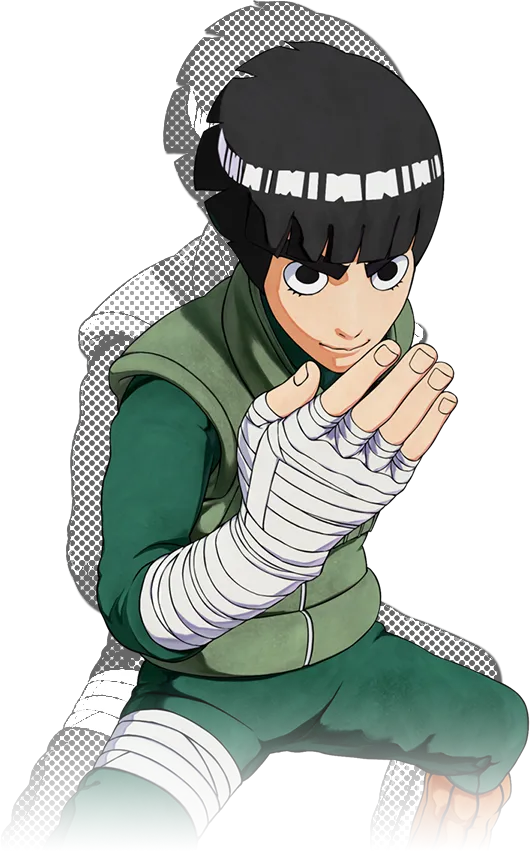
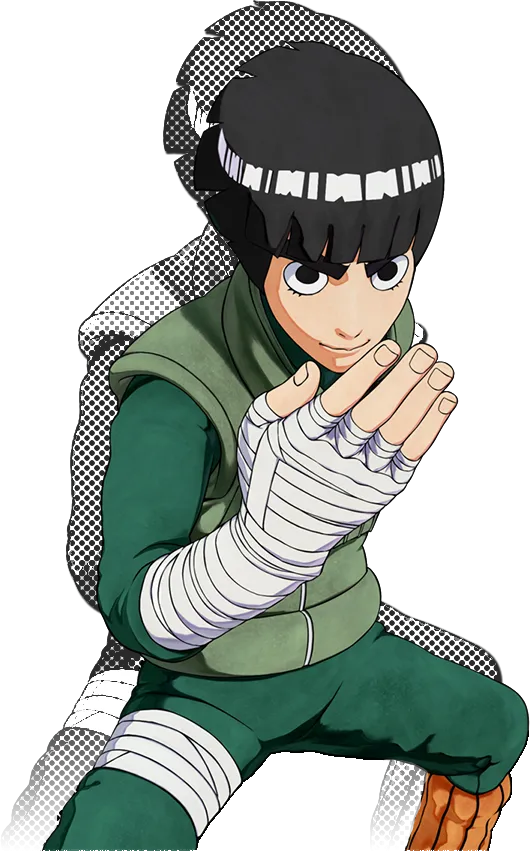
250528_01

Changed region(s): [[0.0302, 0.7027, 1.0, 1.0], [0.1208, 0.0, 0.7547, 0.8249], [0.7849, 0.3666, 0.8151, 0.4277]]

diff --git a/css/style.css b/css/style.css
@@ -1,3 +1,11 @@
+@font-face {
+  font-family: "YOnepickTTF-Bold";
+  src: url("https://fastly.jsdelivr.net/gh/projectnoonnu/2410-1@1.0/YOnepickTTF-Bold.woff2")
+    format("woff2");
+  font-weight: 700;
+  font-style: normal;
+}
+
 body {
   background-color: #60a241;
   background-image: radial-gradient(#98bf85 1px, transparent 1px);
@@ -21,6 +29,12 @@ body {
 .menu_img img {
   height: 65px;
   width: 65px;
+}
+
+.menu_img img:hover {
+  transition: all 0.3s ease;
+  border: #5af711 5px solid;
+  border-radius: 50%;
 }
 
 .menu button {
@@ -66,6 +80,14 @@ body {
   height: 100vh;
 }
 
+.answer {
+  font: normal 700 30px/1.5 "YOnepickTTF-Bold", sans-serif;
+  color: #000;
+  position: absolute;
+  top: 5px;
+  left: 10px;
+}
+
 .rocklee1 {
   z-index: 5;
   position: absolute;
@@ -98,7 +120,7 @@ body {
     filter: brightness(1.2);
   }
   50% {
-    filter: brightness(2);
+    filter: brightness(3);
   }
   100% {
     filter: brightness(1.2);
@@ -153,6 +175,16 @@ body {
   scale: 0.8;
 }
 
+.leaf4 {
+  position: absolute;
+  z-index: 100;
+  top: 100px;
+  right: 0px;
+  animation: falling 5s linear infinite;
+  filter: blur(8px);
+  scale: 0.3;
+}
+
 @keyframes falling {
   0% {
     transform: translateX(100px) translateY(0) rotate(0deg);
@@ -169,7 +201,31 @@ body {
   justify-content: center;
   top: 50px;
   right: 15%;
-  z-index: 1;
+}
+
+.speechbubble img:hover {
+  animation: shake 0.5s ease-in-out infinite;
+}
+
+@keyframes shake {
+  0% {
+    transform: translate(0, 0);
+  }
+  20% {
+    transform: translate(-2px, 2px);
+  }
+  40% {
+    transform: translate(2px, -2px);
+  }
+  60% {
+    transform: translate(-2px, -2px);
+  }
+  80% {
+    transform: translate(2px, 2px);
+  }
+  100% {
+    transform: translate(0, 0);
+  }
 }
 
 .speechbubble .text3 {
@@ -197,6 +253,7 @@ body {
   right: 100px;
   width: 15%;
   animation: sizechange 2s linear infinite;
+  z-index: -2;
 }
 
 @keyframes sizechange {
@@ -217,7 +274,6 @@ body {
   position: absolute;
   bottom: 250px;
   right: 20%;
-  z-index: 2;
   transition: all 1s ease;
   cursor: pointer;
 }
@@ -237,7 +293,6 @@ body {
   left: 50%;
   top: 50%;
   font-size: 30px;
-  z-index: 2;
   text-align: center;
 }
 
@@ -251,7 +306,7 @@ body {
   top: 50%;
   right: 35%;
   width: 100%;
-  z-index: 100;
+  z-index: 1001;
   display: none;
 }
 
@@ -273,6 +328,7 @@ body {
 }
 
 /* 트랙 */
+/* 트랙은 왜 끊길까요??? 전 잘 모르겠습니다 */
 .track {
   overflow: hidden;
   width: 200%;
@@ -384,6 +440,7 @@ body {
 .clickme img {
   width: 300px;
   transition: transform 0.5s ease, filter 0.5s ease;
+  animation: twinkle 1s linear infinite;
 }
 
 .clickme :hover {
@@ -393,8 +450,9 @@ body {
 
 .clickthat {
   position: absolute;
-  right: 3%;
-  top: -20%;
+  right: 28%;
+  top: -30%;
+  font-size: 24px;
 }
 
 .sparkle1 {
@@ -402,7 +460,7 @@ body {
   left: 7%;
   z-index: 1;
   scale: 0.2;
-  top: -70%;
+  top: -90%;
 }
 
 .sparkle2 {
@@ -411,6 +469,7 @@ body {
   scale: 0.2;
   right: -25%;
   bottom: -50%;
+  rotate: 90deg;
 }
 
 /* 록리등장 */
@@ -470,7 +529,7 @@ body {
   transform: translate(-50%, -50%);
   z-index: 90;
   opacity: 0;
-  transition: opacity 0.3s ease;
+  transition: opacity 0.7s ease;
 }
 
 .jolryeol_leaf {
@@ -484,4 +543,73 @@ body {
   align-items: center;
   width: 100vw;
   bottom: -10%;
+}
+
+.jolryeol_leaf img {
+  transition: all 0.5s ease;
+  animation: blink 1s linear infinite;
+}
+
+.jolryeol_leaf img:nth-child(1) {
+  animation-delay: 0s;
+}
+
+.jolryeol_leaf img:nth-child(2) {
+  animation-delay: 0.2s;
+}
+
+.jolryeol_leaf img:nth-child(3) {
+  animation-delay: 0.4s;
+}
+
+.jolryeol_leaf img:nth-child(4) {
+  animation-delay: 0.6s;
+}
+
+.jolryeol_leaf img:nth-child(5) {
+  animation-delay: 0.8s;
+}
+
+.jolryeol_leaf img:nth-child(6) {
+  animation-delay: 1s;
+}
+
+.jolryeol_leaf img:nth-child(7) {
+  animation-delay: 1.2s;
+}
+
+.jolryeol_leaf img:nth-child(8) {
+  animation-delay: 1.4s;
+}
+
+.jolryeol_leaf img:nth-child(9) {
+  animation-delay: 1.6s;
+}
+
+.jolryeol_leaf img:nth-child(10) {
+  animation-delay: 1.8s;
+}
+
+.jolryeol_leaf img:nth-child(11) {
+  animation-delay: 2s;
+}
+
+.jolryeol_leaf img:nth-child(12) {
+  animation-delay: 2.2s;
+}
+
+.jolryeol_leaf img:nth-child(13) {
+  animation-delay: 2.4s;
+}
+
+@keyframes blink {
+  0% {
+    opacity: 1;
+  }
+  50% {
+    opacity: 0.2;
+  }
+  100% {
+    opacity: 1;
+  }
 }

diff --git a/js/common.js b/js/common.js
@@ -4,16 +4,17 @@ document.addEventListener("DOMContentLoaded", function () {
   const approvedImg = document.querySelector(".approved img");
 
   mamaStar3.addEventListener("click", function () {
-    // 먼저 display를 block으로 바꿔서 나타나게 함
+    // display: block으로 보이게
     approvedImg.style.display = "block";
 
-    // transition을 위해 처음에 width를 100%로 설정
+    // transition 제거 → 즉시 width 100%로 초기화
+    approvedImg.style.transition = "none";
     approvedImg.style.width = "100%";
 
-    // 강제로 reflow 발생시켜 트랜지션 발동
+    // 강제로 reflow 발생시켜서 초기화가 반영되도록
     void approvedImg.offsetWidth;
 
-    // width를 15%로 줄이는 애니메이션 실행
+    // transition 추가 → width 15%로 줄이기 (애니메이션 발동)
     approvedImg.style.transition = "width 0.3s ease";
     approvedImg.style.width = "15%";
   });
@@ -32,11 +33,11 @@ document.addEventListener("DOMContentLoaded", function () {
     console.log("clicked!"); // 실행 확인용
 
     [rocklee2, cloud].forEach((el) => {
-      el.style.animation = "shoot 0.3s forwards";
+      el.style.animation = "shoot 0.5s forwards";
     });
 
-    rockleeShadow1.style.animation = "shoot 0.3s 0.2s forwards";
-    rockleeShadow2.style.animation = "shoot 0.3s 0.4s forwards";
+    rockleeShadow1.style.animation = "shoot 0.5s 0.2s forwards";
+    rockleeShadow2.style.animation = "shoot 0.5s 0.4s forwards";
 
     // rocklee_text
     if (rockleeText) {

diff --git a/index.html b/index.html
@@ -35,7 +35,9 @@
     <!-- 1페이지 -->
     <section class="page1">
       <div class="answer">
-        <p></p>
+        <p>
+          멋지고 아름답고 열정적이고 상냥하고 다정한 당신, 행복한 하루되세요♥
+        </p>
       </div>
 
       <figure class="leaf1">
@@ -47,6 +49,10 @@
       </figure>
 
       <figure class="leaf3">
+        <img src="./img/rocklee/leaf.png" alt="" />
+      </figure>
+
+      <figure class="leaf4">
         <img src="./img/rocklee/leaf.png" alt="" />
       </figure>
 
@@ -153,12 +159,12 @@
 
       <div>
         <button class="clickme">
-          <img src="./img/all/Star2.png" alt="" />
+          <img src="./img/all/clickme.png" alt="" />
         </button>
       </div>
 
       <div class="clickthat">
-        <p>◀ 클릭해보세요!</p>
+        <p>클릭해보세요! ▶</p>
       </div>
 
       <figure class="sparkle1">
